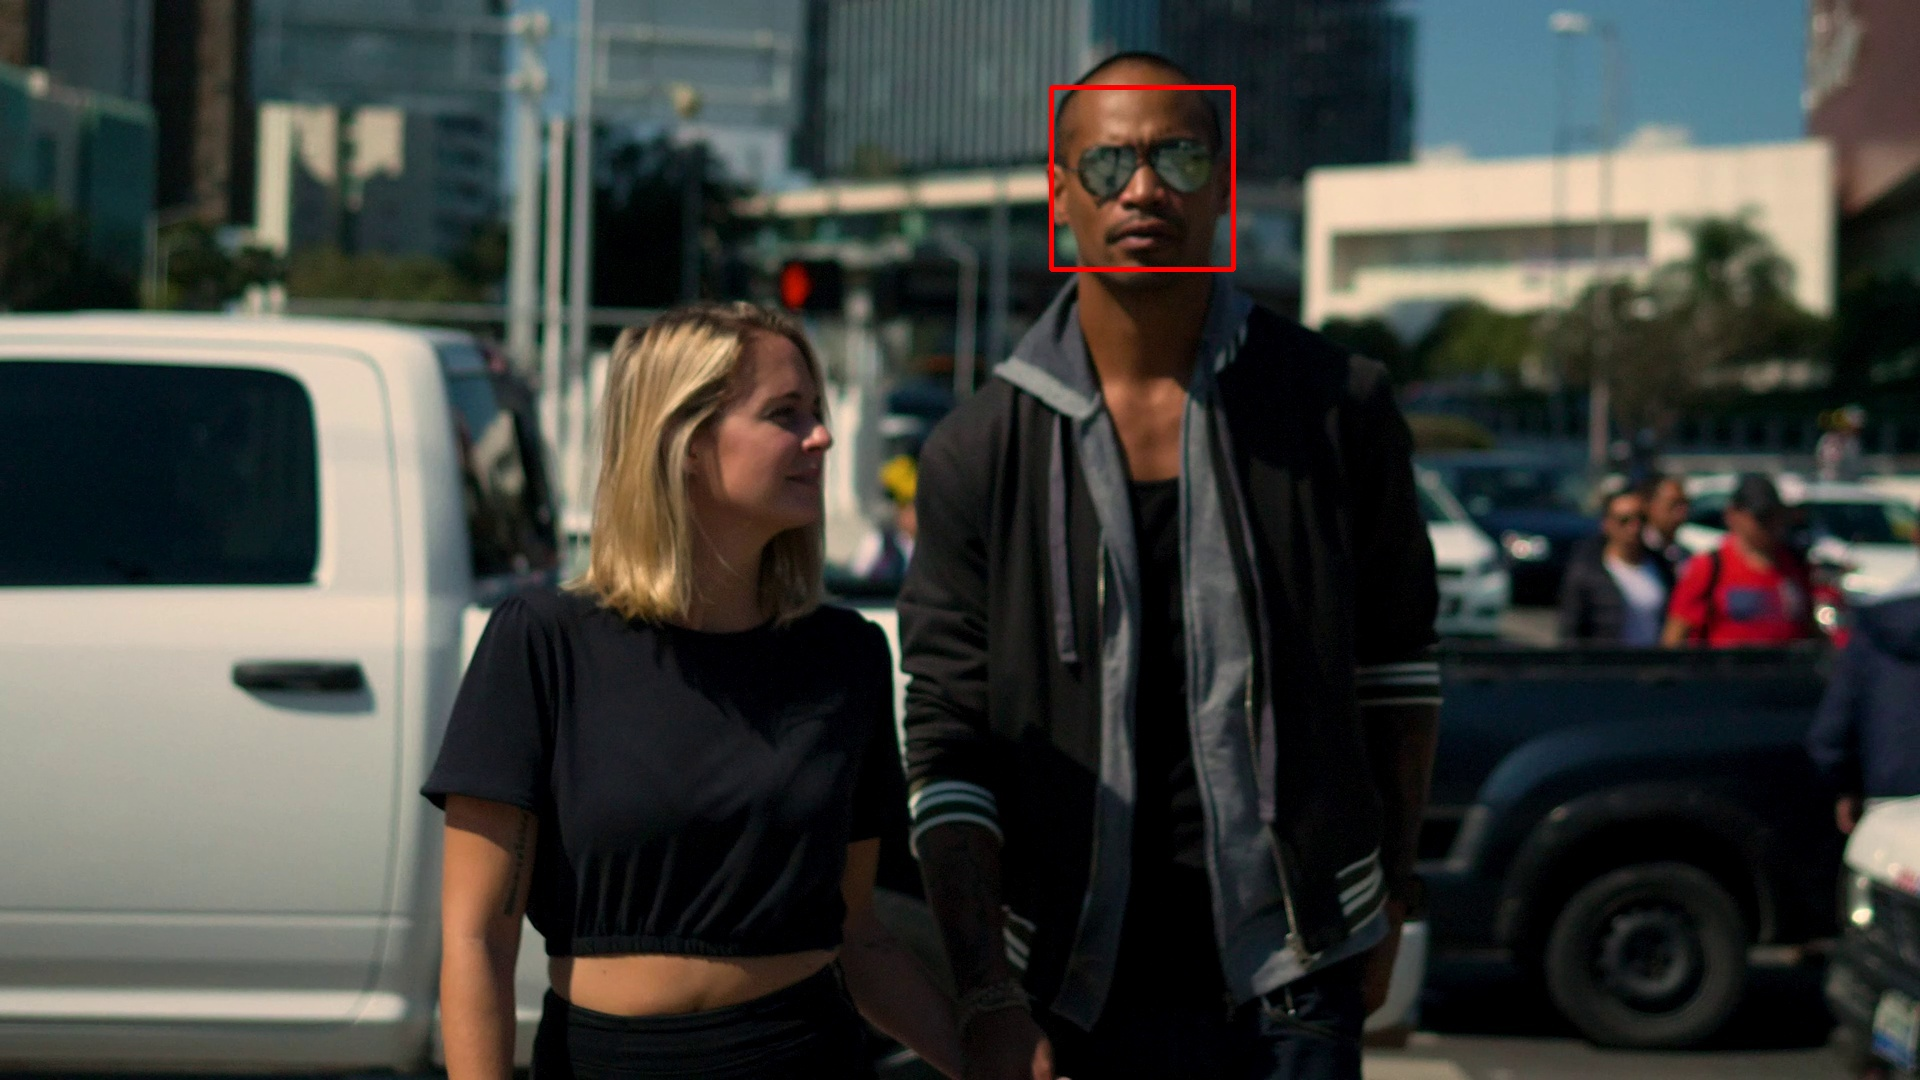
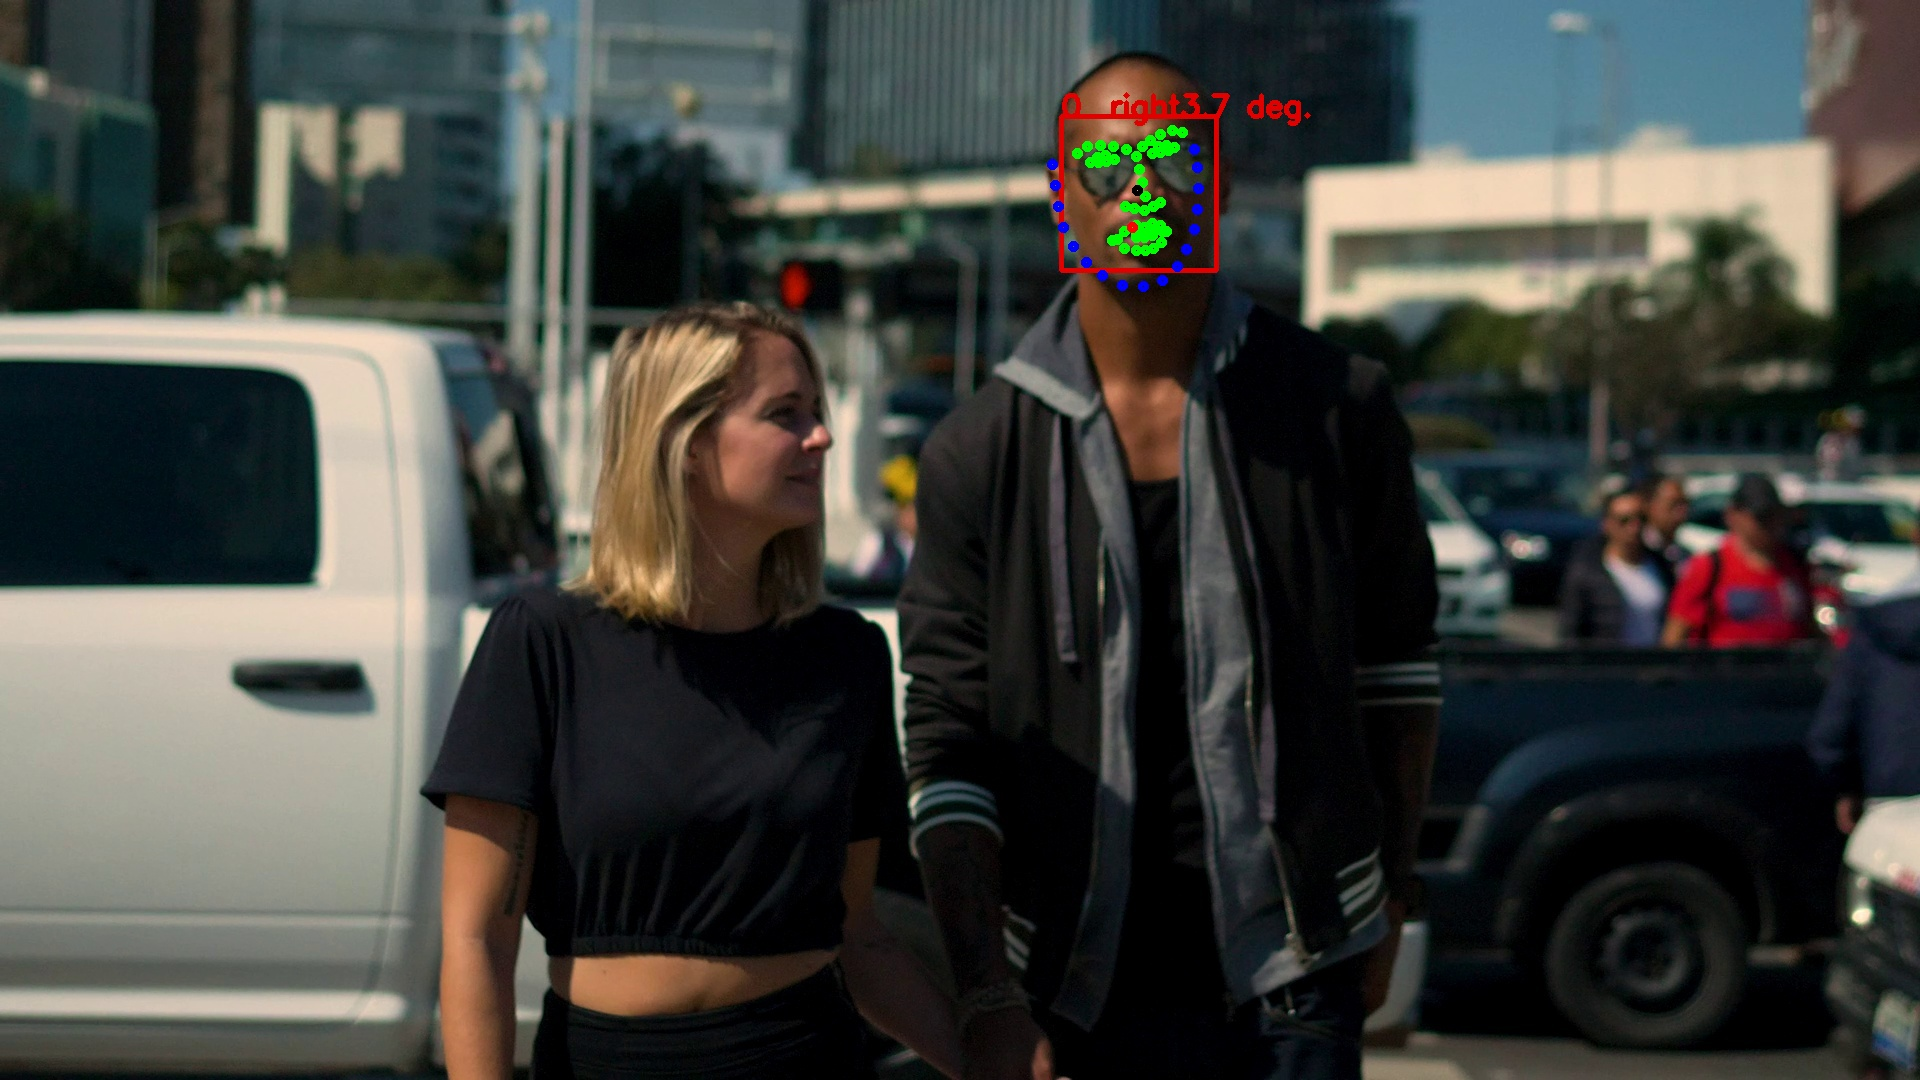
finish D86face_orientation_detection.py

Changed region(s): [[0.5312, 0.0611, 0.6875, 0.275]]

diff --git a/src/Data_analysis/9_image_processing/D86face_orientation_detection.py b/src/Data_analysis/9_image_processing/D86face_orientation_detection.py
@@ -1,0 +1,80 @@
+# %%
+import cv2
+import dlib
+import math
+
+
+# 準備
+predictor = dlib.shape_predictor(
+    "./data/shape_predictor_68_face_landmarks.dat")
+detector = dlib.get_frontal_face_detector()
+
+# 検出
+img = cv2.imread("./data/img/img02.jpg")
+dets = detector(img, 1)
+
+for k, d in enumerate(dets):
+    shape = predictor(img, d)
+
+    # 顔領域の表示
+    color_f = (0, 0, 225)
+    color_l_out = (255, 0, 0)
+    color_l_in = (0, 255, 0)
+    line_w = 3
+    circle_r = 3
+    fontType = cv2.FONT_HERSHEY_SIMPLEX
+    fontSize = 1
+    cv2.rectangle(img, (d.left(), d.top()),
+                  (d.right(), d.bottom()), color_f, line_w)
+    cv2.putText(img, str(k), (d.left(), d.top()),
+                fontType, fontSize, color_f, line_w)
+
+    # 重心を導出する箱を用意
+    num_of_points_out = 17
+    num_of_points_in = shape.num_parts - num_of_points_out
+    gx_out = 0
+    gy_out = 0
+    gx_in = 0
+    gy_in = 0
+
+    for shape_point_count in range(shape.num_parts):
+        shape_point = shape.part(shape_point_count)
+        print("顔器官No. {} 座標位置：({}, {})".format(
+            shape_point_count, shape_point.x, shape_point.y))
+
+        # 器官ごとに描画
+        if shape_point_count < num_of_points_out:
+            cv2.circle(img, (shape_point.x, shape_point.y),
+                       circle_r, color_l_out, line_w)
+            gx_out = gx_out + shape_point.x / num_of_points_out
+            gy_out = gy_out + shape_point.y / num_of_points_out
+        else:
+            cv2.circle(img, (shape_point.x, shape_point.y),
+                       circle_r, color_l_in, line_w)
+            gx_in = gx_in + shape_point.x / num_of_points_in
+            gy_in = gy_in + shape_point.y / num_of_points_in
+
+    # 重心位置を描画
+    cv2.circle(img, (int(gx_out), int(gy_out)), circle_r, (0, 0, 255), line_w)
+    cv2.circle(img, (int(gx_in), int(gy_in)), circle_r, (0, 0, 0), line_w)
+
+    # 顔の方位を計算
+    theta = math.asin(2 * (gx_in - gx_out) / (d.right() - d.left()))
+    radian = theta * 180 / math.pi
+
+    print("顔方位: {} (角度: {} 度)".format(theta, radian))
+
+    # 顔方位を表示
+    if radian < 0:
+        textPrefix = "   left"
+    else:
+        textPrefix = "   right"
+    textShow = textPrefix + str(round(abs(radian), 1)) + " deg."
+    cv2.putText(img, textShow, (d.left(), d.top()),
+                fontType, fontSize, color_f, line_w)
+
+cv2.imshow("img", img)
+cv2.imwrite("temp.jpg", img)
+cv2.waitKey(0)
+
+# %%
